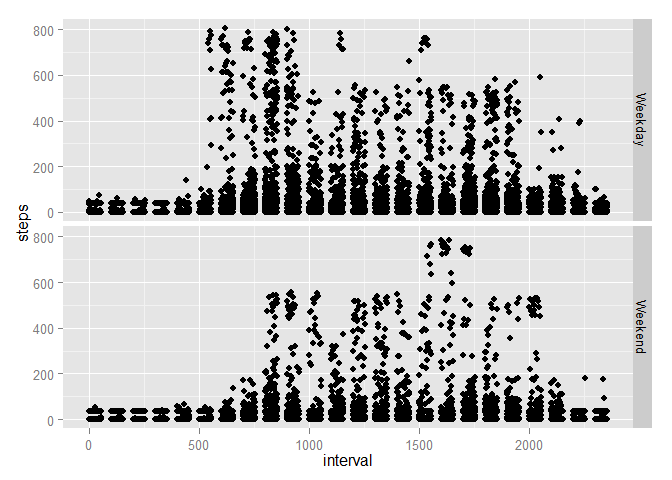
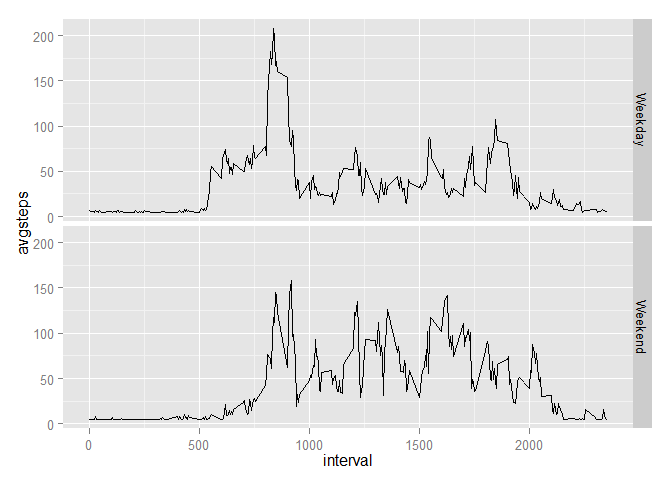
Updated html file

diff --git a/Reproducible Research/Assignment 1/PA1.html b/Reproducible Research/Assignment 1/PA1.html
@@ -6,6 +6,7 @@
 
 <meta charset="utf-8">
 <meta http-equiv="Content-Type" content="text/html; charset=utf-8" />
+<meta http-equiv="Content-Style-Type" content="text/css" />
 <meta name="generator" content="pandoc" />
 
 
@@ -135,10 +136,14 @@ ggplot(avgsteps, aes(x = interval, y=msteps)) + geom_line()</code></pre>
     }
   return(&quot;Weekday&quot;)
 }
-steps = ddply(steps, .(date,interval), transform, day = weekend(date))
 
-ggplot(steps, aes(x = interval, y = steps)) + facet_grid(day~.) + geom_point()</code></pre>
[1 lines of base64/hex data omitted]
+#Number of steps over given interval
+steps2 = ddply(steps, .(date,interval), transform, weekday = weekend(date))
+steps2 = ddply(steps2, .(weekday,interval), summarise, avgsteps = mean(steps))
+
+
+ggplot(steps2, aes(x = interval, y = avgsteps)) + facet_grid(weekday~.) + geom_line()</code></pre>
[1 lines of base64/hex data omitted]
 </div>
 
 
@@ -153,12 +158,12 @@ $(document).ready(function () {
 
 </script>
 
-<!-- dynamically load mathjax for compatibility with self-contained -->
+<!-- dynamically load mathjax for compatibility with --self-contained -->
 <script>
   (function () {
     var script = document.createElement("script");
     script.type = "text/javascript";
-    script.src  = "https://cdn.mathjax.org/mathjax/latest/MathJax.js?config=TeX-AMS-MML_HTMLorMML";
+    script.src  = "https://c328740.ssl.cf1.rackcdn.com/mathjax/latest/MathJax.js?config=TeX-AMS-MML_HTMLorMML";
     document.getElementsByTagName("head")[0].appendChild(script);
   })();
 </script>

diff --git a/Reproducible Research/Assignment 1/PA1.md b/Reproducible Research/Assignment 1/PA1.md
@@ -136,9 +136,13 @@ weekend <- function(day){
     }
   return("Weekday")
 }
-steps = ddply(steps, .(date,interval), transform, day = weekend(date))
 
-ggplot(steps, aes(x = interval, y = steps)) + facet_grid(day~.) + geom_point()
+#Number of steps over given interval
+steps2 = ddply(steps, .(date,interval), transform, weekday = weekend(date))
+steps2 = ddply(steps2, .(weekday,interval), summarise, avgsteps = mean(steps))
+
+
+ggplot(steps2, aes(x = interval, y = avgsteps)) + facet_grid(weekday~.) + geom_line()
 ```
 
 ![plot of chunk unnamed-chunk-6](./PA1_files/figure-html/unnamed-chunk-6.png) 
